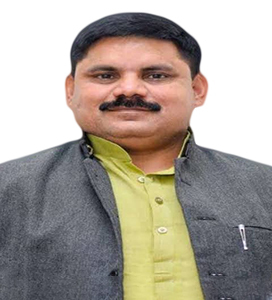
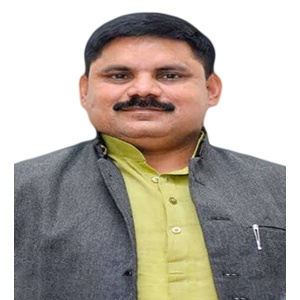
#update

diff --git a/Content/CSS/style.css b/Content/CSS/style.css
@@ -119,20 +119,20 @@ img{
   margin-right: -19px;
 }
 /* Changes the color of the indicators */
-#quote-carouse .carousel-indicators li 
-{
-  background: var(--dbim-gray-01);
-}
-#quote-carouse .carousel-indicators .active 
-{
-  background: var(--dbim-text-body);
-}
-#quote-carouse img
-{
-  width:100%;
-  border:1px solid var(--dbim-gray-02);
-  padding:2px;
-  background:var(--dbim-bg-page);
+	#quote-carouse .carousel-indicators li {
+		/*background: var(--dbim-gray-01);*/
+		background: var(--dbim-primary-lightest);
+	}
+	#quote-carouse .carousel-indicators .active {
+		/*background: var(--dbim-text-body);*/
+		background: var(--dbim-primary-dark);
+	}
+#quote-carouse img {
+	width: 100%;
+	/*border:1px solid var(--dbim-gray-02);*/
+	border: 1px solid var(--dbim-primary-dark);
+	padding: 2px;
+	background: var(--dbim-bg-page);
 }
 
 .Years
@@ -2011,21 +2011,21 @@ a:hover{
   margin-right: -19px;
 }
 /* Changes the color of the indicators */
-#quote-carousel .carousel-indicators li 
-{
-  background: var(--dbim-gray-01);
-}
-#quote-carousel .carousel-indicators .active 
-{
-  background: var(--dbim-text-body);
-}
-#quote-carousel img
-{
-  width:100%;
-  border:1px solid var(--dbim-gray-02);
-  padding:2px;
-  background:var(--dbim-bg-page);
-}
+	#quote-carousel .carousel-indicators li {
+		/*background: var(--dbim-gray-01);*/
+		background: var(--dbim-primary-lightest);
+	}
+	#quote-carousel .carousel-indicators .active {
+		/*background: var(--dbim-text-body);*/
+		background: var(--dbim-primary-dark);
+	}
+	#quote-carousel img {
+		width: 100%;
+		/*border:1px solid var(--dbim-gray-02);*/
+		border: 1px solid var(--dbim-primary-dark);
+		padding: 2px;
+		background: var(--dbim-bg-page);
+	}
 /* End carousel */
 
 .item blockquote {
@@ -2402,10 +2402,11 @@ box-shadow: 1px 1px 3px 0px var(--dbim-gray-02);
 }
 
 #quote-carouse img {
-    width: 100%;
-    border: 1px solid var(--dbim-gray-02);
-    padding: 2px;
-    background: var(--dbim-bg-page);
+	width: 100%;
+	/*border: 1px solid var(--dbim-gray-02);*/
+	border: 1px solid var(--dbim-primary-dark);
+	padding: 2px;
+	background: var(--dbim-bg-page);
 }
 .eventsImage {
     
@@ -5317,10 +5318,12 @@ p.minDeg, p.minName {
 	color: var(--dbim-gray-03);
 }
 #quote-carouse .carousel-indicators li {
-	background: var(--dbim-gray-01);
+	/*background: var(--dbim-gray-01);*/
+	background: var(--dbim-primary-lightest);
 }
 #quote-carouse .carousel-indicators .active {
-	background: var(--dbim-primary-medium);
+	/*background: var(--dbim-primary-medium);*/
+	background: var(--dbim-primary-dark);
 }
 .hcl-title {
 	color: var(--dbim-text-body) !important;
